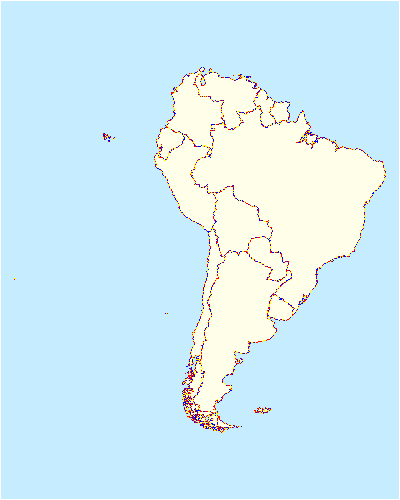
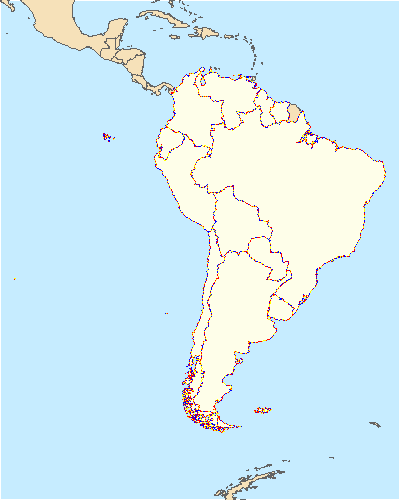
Fix figures

diff --git a/_posts/2019-05-05-Cast to subsegments.md b/_posts/2019-05-05-Cast to subsegments.md
@@ -137,7 +137,7 @@ end - init
 ```
 
 ```
-## Time difference of 0.223402 secs
+## Time difference of 0.2373638 secs
 ```
 
 ```r
@@ -148,12 +148,14 @@ end - init
 ```
 
 ```
-## Time difference of 2.871316 secs
+## Time difference of 2.563142 secs
 ```
 
 ```r
 par(mfrow = c(1, 1), mar = c(0, 0, 0, 0))
-plot(st_geometry(test50), col = "#FEFEE9", bg = "#C6ECFF", border = "#646464")
+plot(st_geometry(test50), col = NA, bg = "#C6ECFF")
+plot(st_geometry(ne_countries(50, returnclass = "sf")), col = "#F6E1B9", border = "#646464", add = T)
+plot(st_geometry(test50), col = "#FEFEE9", border = "#646464", add = T)
 plot(st_geometry(t2), col = c("red", "yellow", "blue"), add = T, lwd = 0.5)
 ```
 
